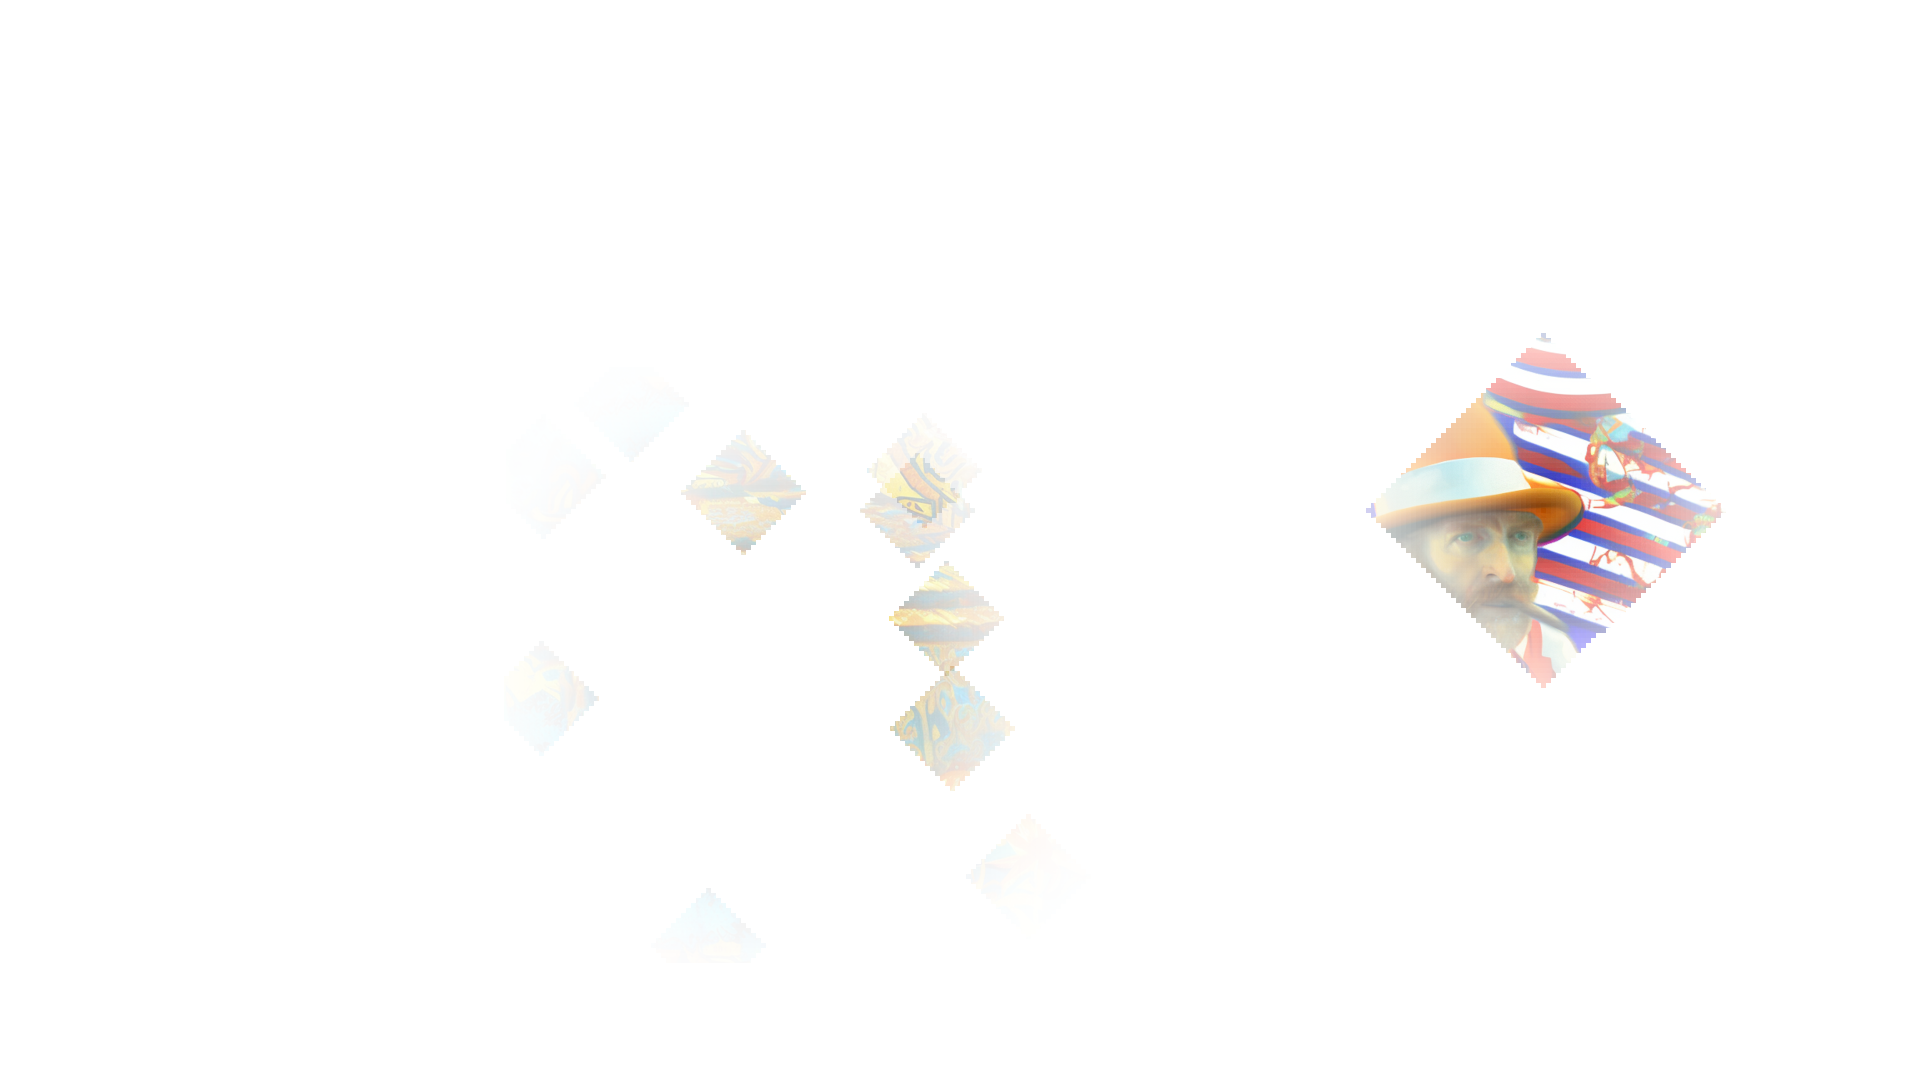
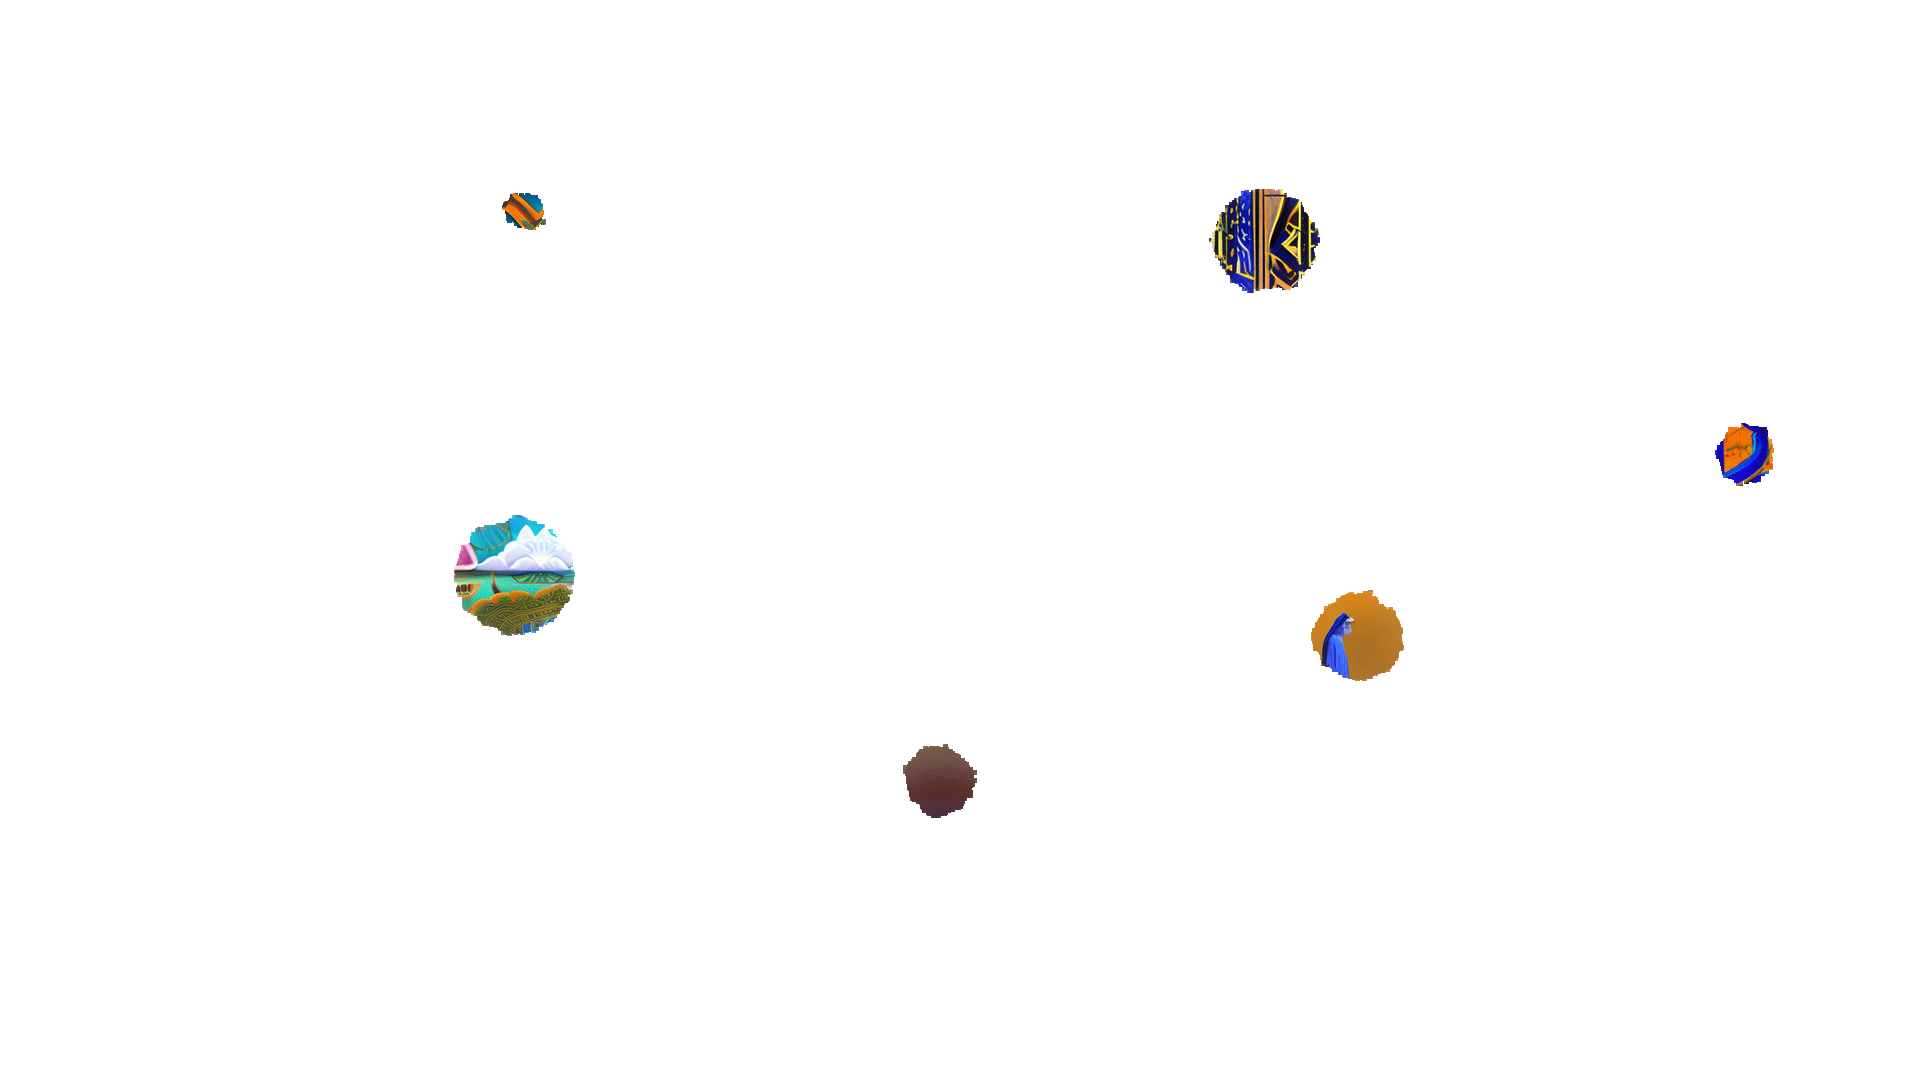
update drawing to reactive system (ant like)

diff --git a/project.py b/project.py
@@ -19,9 +19,8 @@ import torch
 from diffusers import StableDiffusionPipeline
 
 # For canvas and drawing
-from PIL import Image, ImageEnhance, ImageDraw
+from PIL import Image
 import random
-from IPython.display import display, clear_output
 import time # For live drawing
 from collections import deque
 import cv2
@@ -63,44 +62,19 @@ print("ChatGPT Response:", response.choices[0].message.content)
 
 # In[14]:
 
-
 class Agent:
     def __init__(self, image, start_x, start_y, patch_size=5):
-        self.image = image.convert("RGBA")  # Ensure image has alpha
+        self.image = image.convert("RGBA")
         self.patch_size = patch_size
         self.origin_x = start_x
         self.origin_y = start_y
         self.visited = set()
         self.queue = deque()
 
-        # Drawing mode determines shape of reveal
-        self.drawing_mode = random.choice([
-            "center_out", 
-            "top_down", 
-            "left_to_right", 
-            "spiral", 
-            "organic_noise"
-        ])
-
+        # Start in center
         center_x = self.origin_x + self.image.width // 2
         center_y = self.origin_y + self.image.height // 2
-
-        if self.drawing_mode == "center_out" or self.drawing_mode == "spiral":
-            self.queue.append((center_x, center_y))
-
-        elif self.drawing_mode == "top_down":
-            for x in range(self.origin_x, self.origin_x + self.image.width, self.patch_size):
-                self.queue.append((x, self.origin_y))
-
-        elif self.drawing_mode == "left_to_right":
-            for y in range(self.origin_y, self.origin_y + self.image.height, self.patch_size):
-                self.queue.append((self.origin_x, y))
-
-        elif self.drawing_mode == "organic_noise":
-            for _ in range(10):
-                rx = random.randint(self.origin_x, self.origin_x + self.image.width - self.patch_size)
-                ry = random.randint(self.origin_y, self.origin_y + self.image.height - self.patch_size)
-                self.queue.append((rx, ry))
+        self.queue.append((center_x, center_y))
 
     def update(self, canvas):
         if not self.queue:
@@ -113,20 +87,22 @@ class Agent:
 
         self.visited.add(key)
 
-        # Get image patch
+        # Crop patch from image
+        local_x = max(0, x - self.origin_x)
+        local_y = max(0, y - self.origin_y)
         patch = self.image.crop((
-            max(0, x - self.origin_x),
-            max(0, y - self.origin_y),
-            max(0, x - self.origin_x + self.patch_size),
-            max(0, y - self.origin_y + self.patch_size)
+            local_x,
+            local_y,
+            local_x + self.patch_size,
+            local_y + self.patch_size
         ))
 
-        # Fade alpha based on distance from center
+        # Fade alpha by distance
         center_x = self.origin_x + self.image.width // 2
         center_y = self.origin_y + self.image.height // 2
         dist = ((x - center_x) ** 2 + (y - center_y) ** 2) ** 0.5
         max_dist = ((self.image.width // 2) ** 2 + (self.image.height // 2) ** 2) ** 0.5
-        fade = max(0.2, 1.0 - (dist / max_dist))  # Avoid full transparency
+        fade = max(0.15, 1.0 - (dist / max_dist) ** 1.5)  # sharper falloff
 
         patch = patch.copy()
         r, g, b, a = patch.split()
@@ -135,28 +111,14 @@ class Agent:
 
         canvas.paste(patch, (x, y), patch)
 
-        # Base directions (4-neighbors)
-        directions = [
-            (self.patch_size, 0), (-self.patch_size, 0),
-            (0, self.patch_size), (0, -self.patch_size)
-        ]
-
-        # Modify expansion pattern
-        if self.drawing_mode == "spiral":
-            directions = sorted(directions, key=lambda d: random.random() + 0.3 * (d[0] + d[1]))
-
-        elif self.drawing_mode == "top_down":
-            directions = sorted(directions, key=lambda d: d[1])  # prioritize y (vertical)
-
-        elif self.drawing_mode == "left_to_right":
-            directions = sorted(directions, key=lambda d: d[0])  # prioritize x (horizontal)
-
-        elif self.drawing_mode == "organic_noise":
-            random.shuffle(directions)
-
-        # Expand to neighbors
-        for dx, dy in directions:
+        # Expand in noisy radial directions
+        for _ in range(6):  # 6 directions
+            angle = random.uniform(0, 2 * np.pi)
+            radius = random.randint(1, self.patch_size)
+            dx = int(radius * np.cos(angle))
+            dy = int(radius * np.sin(angle))
             nx, ny = x + dx, y + dy
+
             if (nx, ny) not in self.visited:
                 if self.origin_x <= nx < self.origin_x + self.image.width - self.patch_size and \
                    self.origin_y <= ny < self.origin_y + self.image.height - self.patch_size:
@@ -510,7 +472,7 @@ def build_dynamic_prompt():
         f"inspired by traditional {art_form}, "
         f"featuring {motif}, layered with {script}, "
         f"with a {composition_style} composition. "
-        f"Rendered in 768x768, cinematic lighting, textured brushwork, Van Gogh style, and borderless."
+        f"Rendered in cinematic lighting, textured brushwork, Van Gogh style, and borderless."
     )
 
     return prompt
@@ -521,7 +483,7 @@ def generate_image():
     
     size_options = [
         (768, 512), (512, 768), (640, 640), (768, 576),
-        (576, 768), (720, 540), (540, 720), (640, 480)
+        (576, 768), (704, 512), (512, 704), (640, 480)
     ]
     width, height = random.choice(size_options)
 
@@ -553,7 +515,7 @@ def add_agent_for_image(image_path):
     global agents, canvas, used_regions
 
     image = Image.open(image_path).convert("RGBA")
-    resize_ratio = 0.4  # Scale down to 40% of original image
+    resize_ratio = 0.6  # Scale down to 40% of original image
     new_width = int(image.width * resize_ratio)
     new_height = int(image.height * resize_ratio)
     image = image.resize((new_width, new_height), Image.LANCZOS)
@@ -564,7 +526,7 @@ def add_agent_for_image(image_path):
         y = random.randint(0, canvas.height - new_height)
 
         # Check overlap with other agents
-        new_box = (x, y, x + 600, y + 600)
+        new_box = (x, y, x + new_width, y + new_height)
         overlap = any(intersect(new_box, region) for region in used_regions)
 
         if not overlap:
@@ -625,7 +587,7 @@ def automate_from_image_file(image_input, update_callback=None):
 
     # Generate and draw
     generated_image_path, prompt = generate_image()
-    agents.clear()
+    # agents.clear()
     add_agent_for_image(generated_image_path)
     run_live_drawing_loop(update_callback=update_callback)
 
